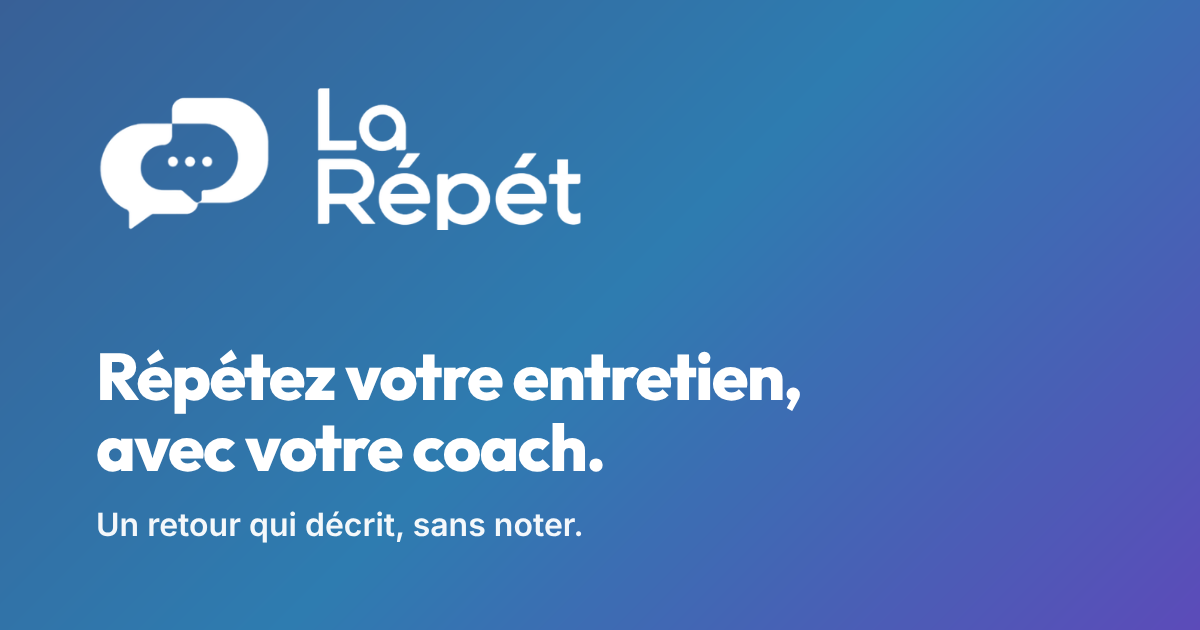
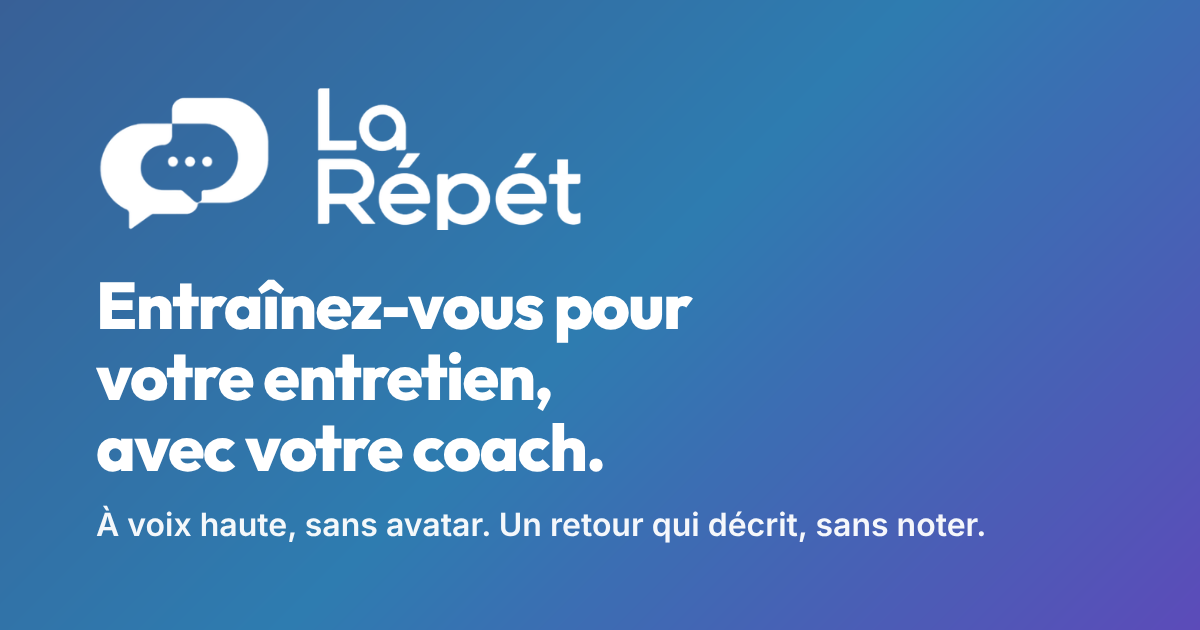
Vocabulaire : « entraînement » et « s'entraîner » à la place de « répétition » et « répéter » (pages, ressources, titres d'onglets, aperçu de lien)
Claude-Session: https://claude.ai/code/session_01BACjQJBDTmda99Xi599YRQ

Changed region(s): [[0.0617, 0.4222, 0.6783, 0.6635], [0.0617, 0.8143, 0.8325, 0.8746]]

diff --git a/src/UseCases.jsx b/src/UseCases.jsx
@@ -44,7 +44,7 @@ function Hub({ go }) {
         </Section>
         <Section eyebrow="Exemples" title="Deux scénarios d'usage" sub="Des situations types, décrites dans le centre de ressources. Aucun résultat n'a été mesuré.">
           <LinkCards cols={2} items={[
-            { href: "#/ressources/scenario-atelier-collectif", icon: I.users, tag: "Scénario d'usage", tone: "coach", title: "Un atelier collectif", text: "Un atelier hebdomadaire qui s'appuie sur les répétitions faites à la maison pour parler de moments concrets.", cta: "Lire le scénario" },
+            { href: "#/ressources/scenario-atelier-collectif", icon: I.users, tag: "Scénario d'usage", tone: "coach", title: "Un atelier collectif", text: "Un atelier hebdomadaire qui s'appuie sur les entraînements faits à la maison pour parler de moments concrets.", cta: "Lire le scénario" },
             { href: "#/ressources/scenario-accompagnement-a-distance", icon: I.monitor, tag: "Scénario d'usage", tone: "coach", title: "Un accompagnement à distance", text: "Garder le fil entre deux rendez-vous espacés, quand la personne accompagnée habite loin de l'agence.", cta: "Lire le scénario" },
           ]} />
         </Section>
@@ -76,7 +76,7 @@ const BENEF = [
   [I.lock, "Accès par code, sans compte", "Un code de 6 caractères remis par votre coach. Ni adresse électronique, ni mot de passe."],
   [I.mic, "Échauffement sans enregistrement", "Des phrases à dire à voix haute, avec une consigne, pour vous lancer. Rien n'est enregistré."],
   [I.target, "Questions adaptées au métier", "Des questions selon le poste que vous visez. Vous pouvez aussi ajouter les vôtres."],
-  [I.video, "Caméra ou voix seule", "3 minutes au plus par réponse. Vous vous revoyez avant de garder la réponse, et vous recommencez autant que vous voulez."],
+  [I.video, "Caméra ou voix seule", "3 minutes au plus par réponse. Vous vous revoyez avant de garder la réponse. Vous recommencez autant que vous voulez, et vous voyez ce qui a changé."],
   [I.sparkle, "Un retour qui décrit", "Rythme de parole, pauses, exemples, petits mots répétés, regard. Ce qui fonctionne déjà est présenté en premier."],
   [I.layers, "Un retour à lire ou à regarder", "Lisez le retour, ou revoyez-vous avec les repères placés au bon moment de la vidéo."],
   [I.chat, "Un assistant de préparation d'entretien", "Il répond à vos questions sur l'entretien, sans remplacer votre coach. Un entraînement complet suit l'ordre d'un vrai entretien."],
@@ -97,9 +97,9 @@ function Beneficiaires({ go, openSpace }) {
   return (
     <main>
       <PageHero eyebrow="Cas d'usage" title="Personnes accompagnées"
-        lead="Vous suivez un accompagnement vers l'emploi, ou votre entreprise vous en propose un. Avec le code de votre coach, vous répétez à voix haute, autant de fois que vous voulez.">
+        lead="Vous suivez un accompagnement vers l'emploi, ou votre entreprise vous en propose un. Avec le code de votre coach, vous vous entraînez à voix haute, sans avatar, autant de fois que vous voulez.">
         <div className="rp-wide-m" style={{ display: "flex", gap: 12, flexWrap: "wrap" }}>
-          <Btn kind="objective" size="lg" onClick={() => openSpace("benef")} iconRight={I.arrow}>Lancer ma première répétition</Btn>
+          <Btn kind="objective" size="lg" onClick={() => openSpace("benef")} iconRight={I.arrow}>Je lance mon premier entraînement</Btn>
         </div>
         <LinkChips label="Sections de la page" items={[
           { href: "#/cas-d-usage/beneficiaires/demandeurs-emploi", icon: I.user, title: "Demandeurs d'emploi" },
@@ -108,7 +108,7 @@ function Beneficiaires({ go, openSpace }) {
       </PageHero>
       <div className="rs-pad" style={wrap}>
         <Section first id="demandeurs-emploi" eyebrow="Demandeurs d'emploi" title="Préparer vos entretiens d'embauche, sans jugement"
-          sub="Dans votre accompagnement vers l'emploi, vous répétez avec le code de votre coach, autant que nécessaire avant le jour J.">
+          sub="Dans votre accompagnement vers l'emploi, vous vous entraînez avec le code de votre coach, autant que nécessaire avant le jour J.">
           <FeatureGrid features={BENEF} />
         </Section>
         <Section id="collaborateurs" eyebrow="Collaborateurs en mobilité" title="Préparer un entretien de mobilité ou d'évolution"

diff --git a/src/About.jsx b/src/About.jsx
@@ -118,7 +118,7 @@ export default function About({ go }) {
             <ul className="rp-sources" style={{ ...TY.small, color: T.body, margin: 0, paddingLeft: 20, display: "grid", gap: 8 }}>
               {BIBLIO.map((b, i) => <Reveal as="li" key={b} delay={stagger(i, 4)}>{b}</Reveal>)}
             </ul>
-            <Reveal><p style={{ ...TY.small, color: T.body, margin: 0 }}>Ce que la recherche dit de la répétition, du retour et de la pratique réflexive : <Link href="#/solutions/recherche">recherche en accompagnement</Link>.</p></Reveal>
+            <Reveal><p style={{ ...TY.small, color: T.body, margin: 0 }}>Ce que la recherche dit de l'entraînement, du retour et de la pratique réflexive : <Link href="#/solutions/recherche">recherche en accompagnement</Link>.</p></Reveal>
           </div>
         </Section>
 
@@ -178,7 +178,7 @@ export default function About({ go }) {
           <div className="rs-split" style={{ alignItems: "center" }}>
             <Reveal style={{ display: "grid", gap: 16, ...TY.bodyLg, color: T.body }}>
               <p style={{ margin: 0 }}>Nous avons conçu La Répét' pour prolonger l'étape de simulation entre deux rendez-vous, et pour nourrir le débriefing. L'outil ne remplace aucune des sept étapes, ni aucun rendez-vous.</p>
-              <p style={{ margin: 0 }}>Comment il s'articule avec la répétition, l'auto-observation, le débriefing et le transfert vers l'entretien réel : c'est expliqué dans Solutions.</p>
+              <p style={{ margin: 0 }}>Comment il s'articule avec l'entraînement en solo, l'auto-observation, le débriefing et le transfert vers l'entretien réel : c'est expliqué dans Solutions.</p>
             </Reveal>
             <Reveal delay={70} style={{ display: "grid", gap: 12, justifyItems: "start" }}>
               <Btn kind="secondary" size="lg" onClick={() => go("#/solutions/methode")} iconRight={I.arrow}>Lire la méthode outillée</Btn>
@@ -225,7 +225,7 @@ const STEPS = [
     coach: "Aide à nommer les compétences avec le vocabulaire du métier visé et des offres d'emploi. Vérifie que chaque compétence s'appuie sur un exemple.",
     person: "Choisit ses exemples et les reformule avec ses propres mots.",
     out: "Un répertoire de réalisations et une présentation qui lui ressemble." },
-  { t: "Simulation et répétition", why: "S'essayer en situation proche de l'entretien, autant de fois que nécessaire.",
+  { t: "Simulation et entraînement", why: "S'essayer en situation proche de l'entretien, autant de fois que nécessaire.",
     coach: "Construit des mises en situation fidèles à l'entretien visé : type de questions, interlocuteurs, format sur place ou en visio. En rendez-vous ou en atelier.",
     person: "Répond à voix haute, recommence, essaie une autre formulation. Entre deux séances, elle peut s'entraîner seule.",
     out: "Des réponses travaillées, prêtes à être reprises en débriefing." },

diff --git a/index.html b/index.html
@@ -10,21 +10,21 @@
     <!-- SITE FERMÉ À L'INDEXATION. Pour l'ouvrir (liste de contrôle complète : docs/seo.md, section 2) : retirer
          cette balise, remplacer public/robots.txt par sa version d'ouverture, déclarer le site dans Search Console. -->
     <meta name="robots" content="noindex, nofollow" />
-    <meta name="description" content="Préparez un entretien d'embauche ou de mobilité : vous répétez à votre rythme, un retour décrit votre réponse sans la noter et votre coach garde la main." />
+    <meta name="description" content="Entretien d'embauche ou de mobilité : entraînez-vous à voix haute, sans avatar. Un retour décrit votre réponse sans la noter, et votre coach vous soutient." />
     <link rel="canonical" href="https://famickael.github.io/la-repet/" />
     <meta property="og:type" content="website" />
     <meta property="og:site_name" content="La Répét'" />
     <meta property="og:locale" content="fr_FR" />
     <meta property="og:title" content="S'entraîner aux entretiens avec un coach" />
-    <meta property="og:description" content="Vous répétez à votre rythme, un retour décrit votre réponse sans la noter, et votre coach garde la main." />
+    <meta property="og:description" content="Entraînez-vous à voix haute, sans avatar. Un retour décrit votre réponse sans la noter, et votre coach vous soutient." />
     <meta property="og:url" content="https://famickael.github.io/la-repet/" />
     <meta property="og:image" content="https://famickael.github.io/la-repet/og-image.png" />
     <meta property="og:image:type" content="image/png" />
     <meta property="og:image:width" content="1200" />
     <meta property="og:image:height" content="630" />
-    <meta property="og:image:alt" content="Logo La Répét' sur un dégradé bleu et violet, avec la phrase : Répétez votre entretien, avec votre coach. Un retour qui décrit, sans noter." />
+    <meta property="og:image:alt" content="Logo La Répét' sur un dégradé bleu et violet, avec la phrase : Entraînez-vous pour votre entretien, avec votre coach. À voix haute, sans avatar. Un retour qui décrit, sans noter." />
     <meta name="twitter:card" content="summary_large_image" />
-    <meta name="twitter:image:alt" content="Logo La Répét' sur un dégradé bleu et violet, avec la phrase : Répétez votre entretien, avec votre coach. Un retour qui décrit, sans noter." />
+    <meta name="twitter:image:alt" content="Logo La Répét' sur un dégradé bleu et violet, avec la phrase : Entraînez-vous pour votre entretien, avec votre coach. À voix haute, sans avatar. Un retour qui décrit, sans noter." />
     <meta name="theme-color" content="#F8FAFC" media="(prefers-color-scheme: light)" />
     <meta name="theme-color" content="#0E141E" media="(prefers-color-scheme: dark)" />
     <link rel="icon" type="image/svg+xml" href="./favicon.svg" />

diff --git a/src/lib/seo.js b/src/lib/seo.js
@@ -23,7 +23,7 @@ export const SEO = {
   /* Routes actuelles (src/App.jsx, src/app/router.js) */
   "#/": {
     title: `S'entraîner aux entretiens avec un coach${SEP}${SITE_NAME}`,
-    description: "Préparez un entretien d'embauche ou de mobilité : vous répétez à votre rythme, un retour décrit votre réponse sans la noter et votre coach garde la main.",
+    description: "Entretien d'embauche ou de mobilité : entraînez-vous à voix haute, sans avatar. Un retour décrit votre réponse sans la noter, et votre coach vous soutient.",
   },
   "#/a-propos": {
     title: t("Qui sommes-nous"),
@@ -109,7 +109,7 @@ export const SEO = {
   },
   "#/solutions/recherche": {
     title: t("Ce que dit la recherche"),
-    description: "Les travaux sur la préparation aux entretiens qui ont guidé La Répét' : répétition, retour descriptif et rôle de l'accompagnant, avec leurs références.",
+    description: "Les travaux sur la préparation aux entretiens qui ont guidé La Répét' : entraînement, retour descriptif et rôle de l'accompagnant, avec leurs références.",
   },
   "#/solutions/fonctionnalites": {
     title: t("Fonctionnalités"),
@@ -117,7 +117,7 @@ export const SEO = {
   },
   "#/solutions/methode": {
     title: t("Méthode d'accompagnement"),
-    description: "Comment La Répét' sert l'accompagnement : répéter, se revoir, lire un retour qui décrit sans noter, débriefer avec le coach et transférer vers l'entretien.",
+    description: "Comment La Répét' sert l'accompagnement : s'entraîner, se revoir, lire un retour qui décrit sans noter, débriefer avec le coach et transférer vers l'entretien.",
   },
   "#/cas-d-usage": {
     title: t("Cas d'usage"),

diff --git a/src/lib/assistant.js b/src/lib/assistant.js
@@ -429,7 +429,7 @@ export const KB = [
     id: "francais", q: "Le français n'est pas ma langue maternelle, comment faire ?",
     keys: ["francais", "langue maternelle", "accent", "mal parler", "je parle mal", "mon niveau de francais", "langue etrangere", "fle"],
     answer: "C'est une richesse, et un accent n'empêche pas d'être bien compris. Préparez des phrases simples et courtes pour les questions classiques, et parlez à un rythme posé. Vous pouvez demander de répéter une question, c'est normal.",
-    more: "Entraînez-vous plusieurs fois sur la même question : la répétition rend les phrases plus naturelles. Si vous parlez d'autres langues, mentionnez-le : c'est souvent un atout, selon le poste.",
+    more: "Entraînez-vous plusieurs fois sur la même question : les phrases deviennent plus naturelles d'un essai à l'autre. Si vous parlez d'autres langues, mentionnez-le : c'est souvent un atout, selon le poste.",
     example: "« Excusez-moi, pouvez-vous répéter la question, s'il vous plaît ? » est une phrase utile à préparer.",
     related: ["debit", "vocabulaire", "refaire"],
   },

diff --git a/src/Solutions.jsx b/src/Solutions.jsx
@@ -15,7 +15,7 @@ export const SOLUTIONS = [
   { href: "#/solutions/fonctionnalites", icon: I.layers, title: "Fonctionnalités", short: "Fonctionnalités",
     text: "L'outil pas à pas : échauffement, questions adaptées, caméra ou voix seule, retour qui décrit, envoi au coach, relecture et rapport." },
   { href: "#/solutions/methode", icon: I.compass, tone: "coach", title: "Méthode", short: "Méthode",
-    text: "Comment l'outil sert l'accompagnement : répétition, auto-observation, retour qui décrit, débriefing avec le coach et transfert vers l'entretien réel." },
+    text: "Comment l'outil sert l'accompagnement : entraînement en solo, auto-observation, retour qui décrit, débriefing avec le coach et transfert vers l'entretien réel." },
 ];
 
 export default function Solutions({ go }) {

diff --git a/src/Resources.jsx b/src/Resources.jsx
@@ -247,7 +247,7 @@ function Article({ a, go, openSpace }) {
             <Btn kind="white" size="lg" onClick={() => go("#/demo")} iconRight={I.arrow}>Nous contacter</Btn>
           </FinalBand>
         ) : (
-          <FinalBand title="Mettez ces conseils en pratique" text="Ouvrez votre espace et répétez à voix haute, à votre rythme." openSpace={openSpace} go={go}>
+          <FinalBand title="Mettez ces conseils en pratique" text="Ouvrez votre espace et entraînez-vous à voix haute, à votre rythme." openSpace={openSpace} go={go}>
             <Btn kind="white" size="lg" onClick={openSpace} iconRight={I.arrow}>Ouvrir mon espace</Btn>
             <Btn kind="ghostDark" size="lg" onClick={() => go("#/ressources")}>Toutes les ressources</Btn>
           </FinalBand>

diff --git a/scripts/og-image.html b/scripts/og-image.html
@@ -34,8 +34,8 @@
       <div class="word"><span class="layer lettres"></span><span class="layer accents"></span></div>
     </div>
     <div>
-      <h1>Répétez votre entretien,<br />avec votre coach.</h1>
-      <p>Un retour qui décrit, sans noter.</p>
+      <h1>Entraînez-vous pour<br />votre entretien,<br />avec votre coach.</h1>
+      <p>À voix haute, sans avatar. Un retour qui décrit, sans noter.</p>
     </div>
   </div>
 <script>

diff --git a/src/content/resources/scenario-pilote-sur-un-site.md b/src/content/resources/scenario-pilote-sur-un-site.md
@@ -9,7 +9,7 @@ date: 2026-11-21
 author: Équipe La Répét'
 featured: false
 order: 32
-context: Un site d’accompagnement qui souhaite essayer une modalité de répétition.
+context: Un site d’accompagnement qui souhaite essayer une modalité d’entraînement.
 audience: Des personnes qui préparent un entretien et l’équipe qui les accompagne.
 duration: Une préparation, un temps d’essai et une restitution.
 setup: Des séances volontaires avec un débriefing individuel et un bilan collectif.
@@ -19,7 +19,7 @@ Ce scénario fictif décrit comment un organisme d’accompagnement et son comma
 
 ## Le défi
 
-L’équipe du site souhaite proposer un exercice entre le premier rendez-vous de préparation et le débriefing. Les personnes accompagnées n’ont pas toutes accès à un appareil ou à un endroit où elles peuvent parler tranquillement. L’organisme pourrait réserver un lieu et proposer un accompagnement qui laisse à chacun le choix de la voix seule, de la vidéo ou d’une répétition orale avec le coach.
+L’équipe du site souhaite proposer un exercice entre le premier rendez-vous de préparation et le débriefing. Les personnes accompagnées n’ont pas toutes accès à un appareil ou à un endroit où elles peuvent parler tranquillement. L’organisme pourrait réserver un lieu et proposer un accompagnement qui laisse à chacun le choix de la voix seule, de la vidéo ou d’un entraînement oral avec le coach.
 
 Le commanditaire et l’équipe pourraient convenir d’une question à laquelle le pilote doit répondre, par exemple vérifier si la réservation d’un espace calme et la relecture sur rendez-vous s’intègrent au fonctionnement du site. Ils pourraient définir ensemble les conditions nécessaires avant de proposer ce parcours à des personnes accompagnées.
 
@@ -29,7 +29,7 @@ Avant l’ouverture, l’équipe décrirait le parcours, les appareils utilisés
 
 Lors du premier échange, le coach présenterait l’exercice et demanderait à la personne quel type d’entretien elle souhaite préparer. Il pourrait proposer un essai sans enregistrement pour prendre connaissance de la question. La personne qui choisit de s’enregistrer pourrait utiliser le micro seul ou la caméra. Si elle souhaite un avis du coach, elle déciderait quelle réponse lui montrer et quel passage elle veut discuter. Dans le mode local, l’équipe organiserait la relecture sur le même appareil et dans le même navigateur.
 
-Pendant le débriefing, le coach proposerait de reprendre un passage choisi avec la personne. Ensemble, ils pourraient relever une action qui rend l’exemple compréhensible, puis décider d’une question ou d’un point à travailler. Si la personne préfère une répétition orale, le coach pourrait l’écouter et lui proposer le même type d’échange.
+Pendant le débriefing, le coach proposerait de reprendre un passage choisi avec la personne. Ensemble, ils pourraient relever une action qui rend l’exemple compréhensible, puis décider d’une question ou d’un point à travailler. Si la personne préfère un entraînement oral, le coach pourrait l’écouter et lui proposer le même type d’échange.
 
 Enfin, l’équipe pourrait préparer un bilan sur l’organisation du pilote. Elle y indiquerait les modalités testées, les contraintes rencontrées et les besoins matériels ou d’accueil pour une suite éventuelle. Le commanditaire recevrait des éléments collectifs. Les enregistrements, les observations et les remarques individuelles resteraient dans le cadre de l’accompagnement.
 

diff --git a/src/content/resources/scenario-preparation-job-dating.md b/src/content/resources/scenario-preparation-job-dating.md
@@ -2,7 +2,7 @@
 title: Préparer un job dating en atelier
 category: coachs
 type: cas
-summary: Un scénario d’atelier pour choisir un exemple de travail, répéter une présentation courte et organiser un retour avec un coach.
+summary: Un scénario d’atelier pour choisir un exemple de travail, s’entraîner à une présentation courte et organiser un retour avec un coach.
 image: categories/coachs.webp
 imageAlt:
 date: 2026-11-21
@@ -40,8 +40,8 @@ L’atelier pourrait aider les personnes à disposer d’un exemple qu’elles s
 Le coach pourrait recueillir ce que les personnes souhaitent conserver juste après l’atelier, puis revenir avec elles sur les situations rencontrées pendant l’événement. Il pourrait leur demander quelle question leur a été posée, quel exemple elles ont utilisé ou ce qu’elles aimeraient préparer pour un prochain rendez-vous. Ces éléments serviraient à ajuster l’accompagnement selon leurs besoins.
 
 > [!attention] Points de vigilance
-> Demandez l’accord de la personne avant toute relecture et prévoyez un espace où elle peut s’entraîner à l’écart du groupe. Laissez un choix entre une répétition orale, la voix seule et la vidéo. En mode local, organisez à l’avance l’accès au même appareil pour la relecture. Décidez avec chaque personne du passage qu’elle veut reprendre en débriefing.
+> Demandez l’accord de la personne avant toute relecture et prévoyez un espace où elle peut s’entraîner à l’écart du groupe. Laissez un choix entre un entraînement oral sans outil, la voix seule et la vidéo. En mode local, organisez à l’avance l’accès au même appareil pour la relecture. Décidez avec chaque personne du passage qu’elle veut reprendre en débriefing.
 
 ## Pour aller plus loin
 
-Le guide [Se présenter en deux minutes](#/ressources/se-presenter-en-deux-minutes) propose une trame pour choisir un exemple et le relier au poste. Si vous préparez un échange après la répétition, consultez aussi [Animer un débriefing à partir d’une réponse enregistrée](#/ressources/animer-un-debriefing-a-partir-d-une-reponse).
+Le guide [Se présenter en deux minutes](#/ressources/se-presenter-en-deux-minutes) propose une trame pour choisir un exemple et le relier au poste. Si vous préparez un échange après l’entraînement, consultez aussi [Animer un débriefing à partir d’une réponse enregistrée](#/ressources/animer-un-debriefing-a-partir-d-une-reponse).

diff --git a/src/content/resources/gerer-le-trac-et-preparer-sa-venue.md b/src/content/resources/gerer-le-trac-et-preparer-sa-venue.md
@@ -17,11 +17,11 @@ Avoir le trac avant un entretien est très courant, y compris chez les personnes
 
 - **Renseignez-vous sur la structure** : son activité, ses clients ou usagers, ses valeurs affichées. Notez deux ou trois éléments qui vous parlent.
 - **Relisez l'offre** et soulignez ce qui est demandé. Pour chaque point, cherchez un exemple tiré de votre parcours.
-- **Entraînez-vous à voix haute**. Répéter dans sa tête ne suffit pas : c'est en parlant que l'on repère les phrases qui accrochent.
+- **Entraînez-vous à voix haute**. Se redire sa réponse dans sa tête ne suffit pas : c'est en parlant que l'on repère les phrases qui accrochent.
 - **Préparez vos documents** : plusieurs exemplaires de votre CV, la convocation, une pièce d'identité si elle est demandée, de quoi noter.
 
 > [!conseil] Une répétition générale
-> La veille, faites une répétition complète : présentation, deux ou trois questions, vos questions au recruteur. Avec La Répét', vous pouvez l'enregistrer puis vous revoir ou lire le retour, et recommencer autant que vous le souhaitez.
+> La veille, faites un entraînement complet : présentation, deux ou trois questions, vos questions au recruteur. Avec La Répét', vous pouvez l'enregistrer puis vous revoir ou lire le retour, et recommencer autant que vous le souhaitez.
 
 ## Préparer sa tenue
 

diff --git a/src/content/resources/scenario-atelier-collectif.md b/src/content/resources/scenario-atelier-collectif.md
@@ -2,7 +2,7 @@
 title: Un atelier collectif de préparation aux entretiens
 category: coachs
 type: cas
-summary: Scénario d'usage : comment un atelier hebdomadaire pourrait s'appuyer sur les répétitions faites à la maison pour gagner en concret.
+summary: Scénario d'usage : comment un atelier hebdomadaire pourrait s'appuyer sur les entraînements faits à la maison pour gagner en concret.
 image: ressources/scenario-atelier-collectif.webp
 imageAlt: Des personnes discutent autour d’une petite table dans un espace de travail.
 date: 2026-11-20
@@ -13,7 +13,7 @@ order: 10
 context: Un organisme d'accompagnement de taille moyenne, fictif et générique
 audience: Une dizaine de personnes en recherche d'emploi, accompagnées par deux coachs
 duration: Quatre séances hebdomadaires
-setup: Atelier collectif et répétitions autonomes entre les séances
+setup: Atelier collectif et entraînements autonomes entre les séances
 ---
 
 Ce scénario d'usage décrit une façon possible d'utiliser La Répét'. L'organisme et les situations sont fictifs ; ils servent à illustrer le dispositif, pas à en mesurer les effets.
